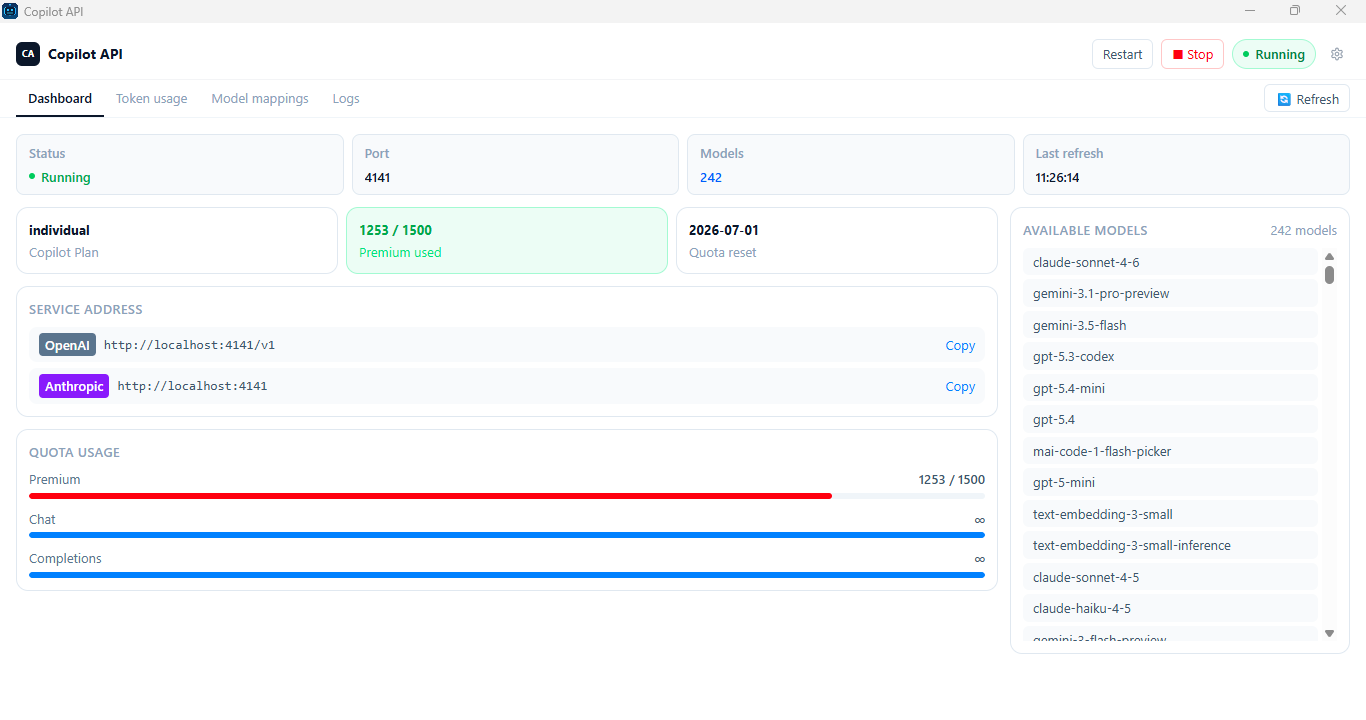
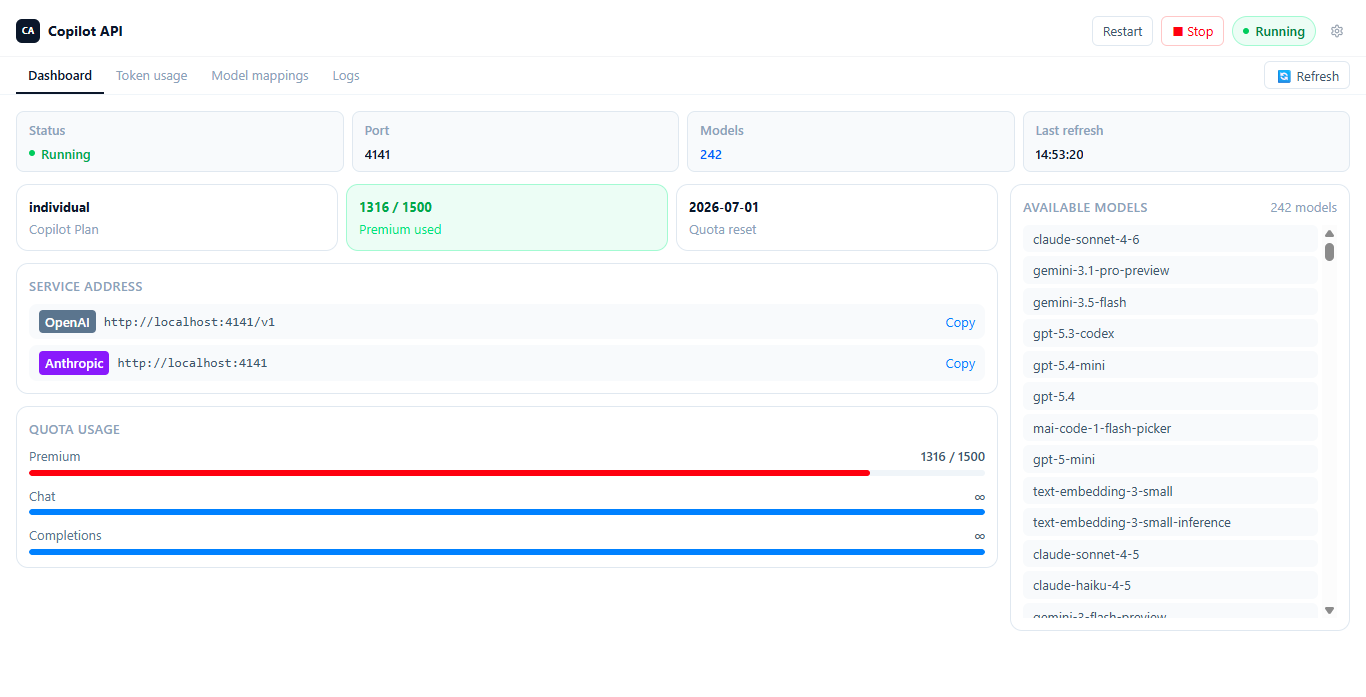
feat: update README

diff --git a/README.md b/README.md
@@ -274,7 +274,6 @@ Why these fields matter:
 
 - `npm: "@ai-sdk/anthropic"` is the important part. OpenCode will speak Anthropic Messages semantics to this AI gateway instead of flattening everything into OpenAI Chat Completions.
 - `options.baseURL` should be `http://localhost:4141/v1`; the Anthropic SDK will append `/messages`, `/models`, and `/messages/count_tokens` automatically.
-- `model`, `small_model`, and `agent.*.model` let you keep `gpt-5.4` for build/plan work while routing exploration and background work to `gpt-5-mini`.
 - If you enable `auth.apiKeys` in this AI gateway, replace `dummy` with a real key. Otherwise any placeholder value is fine.
 
 ## Using with Codex

diff --git a/README.zh-CN.md b/README.zh-CN.md
@@ -276,7 +276,6 @@ npx @jeffreycao/copilot-api@latest start
 
 - `npm: "@ai-sdk/anthropic"` 是关键。OpenCode 会以 Anthropic Messages 语义与这个 AI gateway 通信，而不是把一切扁平化为 OpenAI Chat Completions。
 - `options.baseURL` 应设为 `http://localhost:4141/v1`；Anthropic SDK 会自动补上 `/messages`、`/models` 和 `/messages/count_tokens`。
-- `model`、`small_model` 与 `agent.*.model` 让你可以把 `gpt-5.4` 用于 build/plan，同时把探索和后台工作路由到 `gpt-5-mini`。
 - 如果你在此代理中启用了 `auth.apiKeys`，请把 `dummy` 替换为真实 key；否则任意占位值都可以。
 
 ## 与 Codex 一起使用